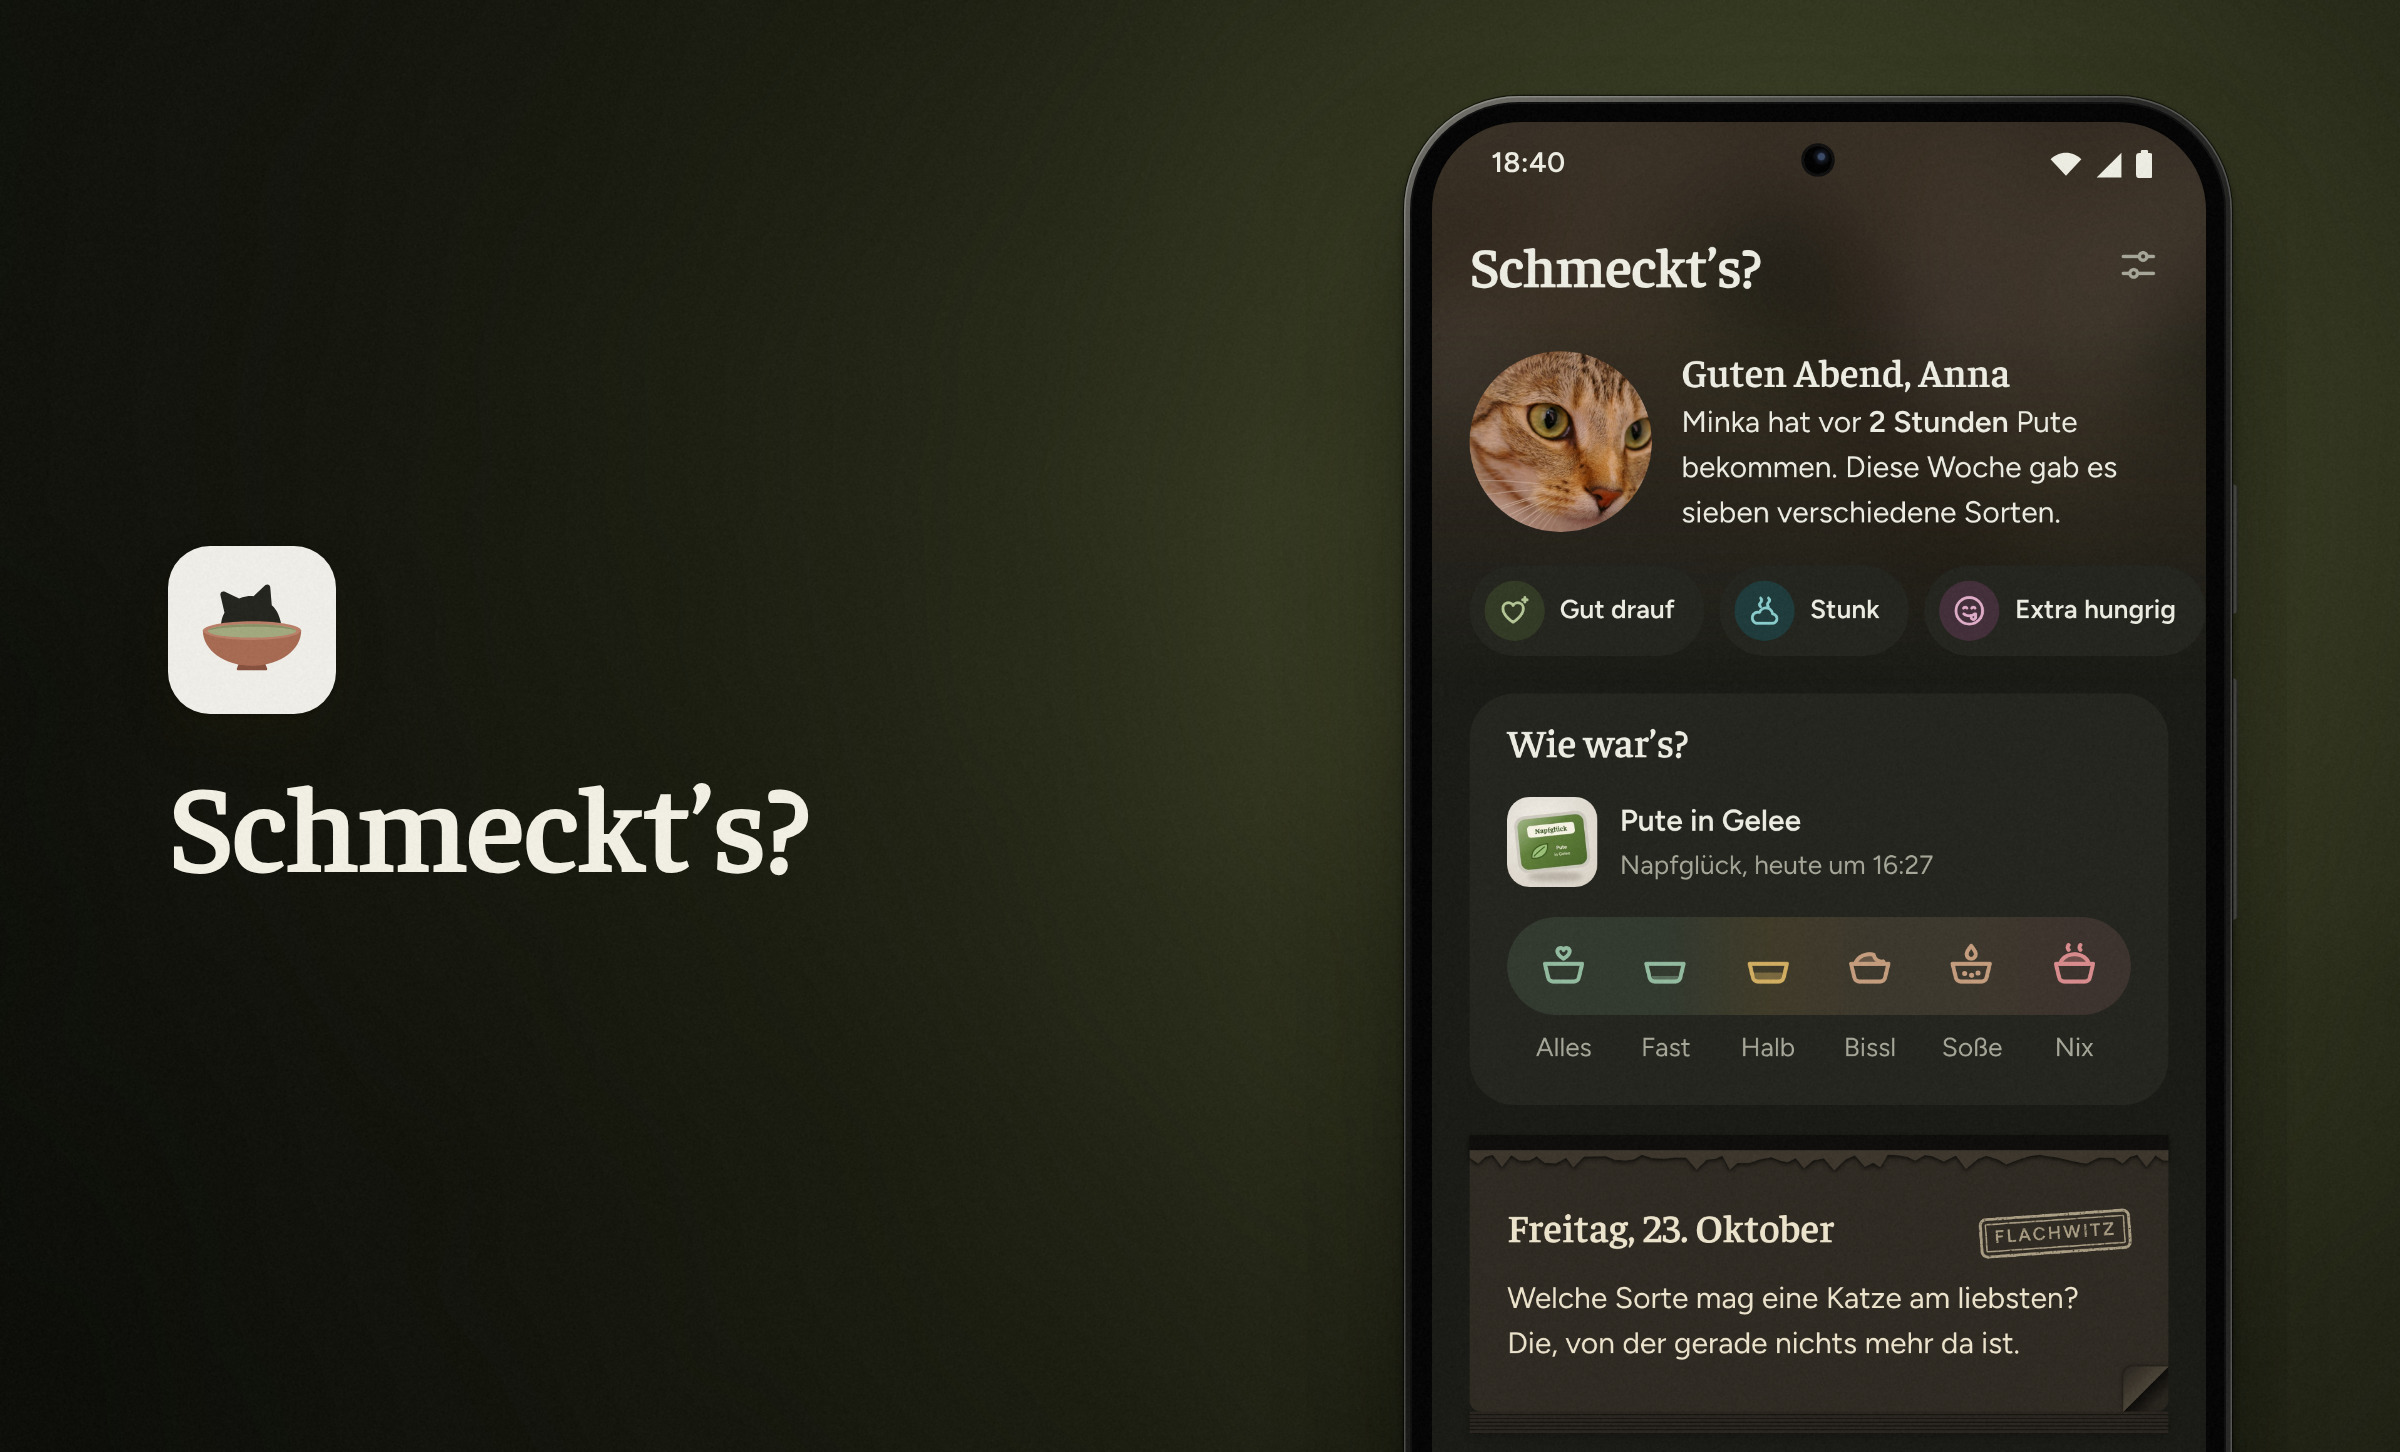
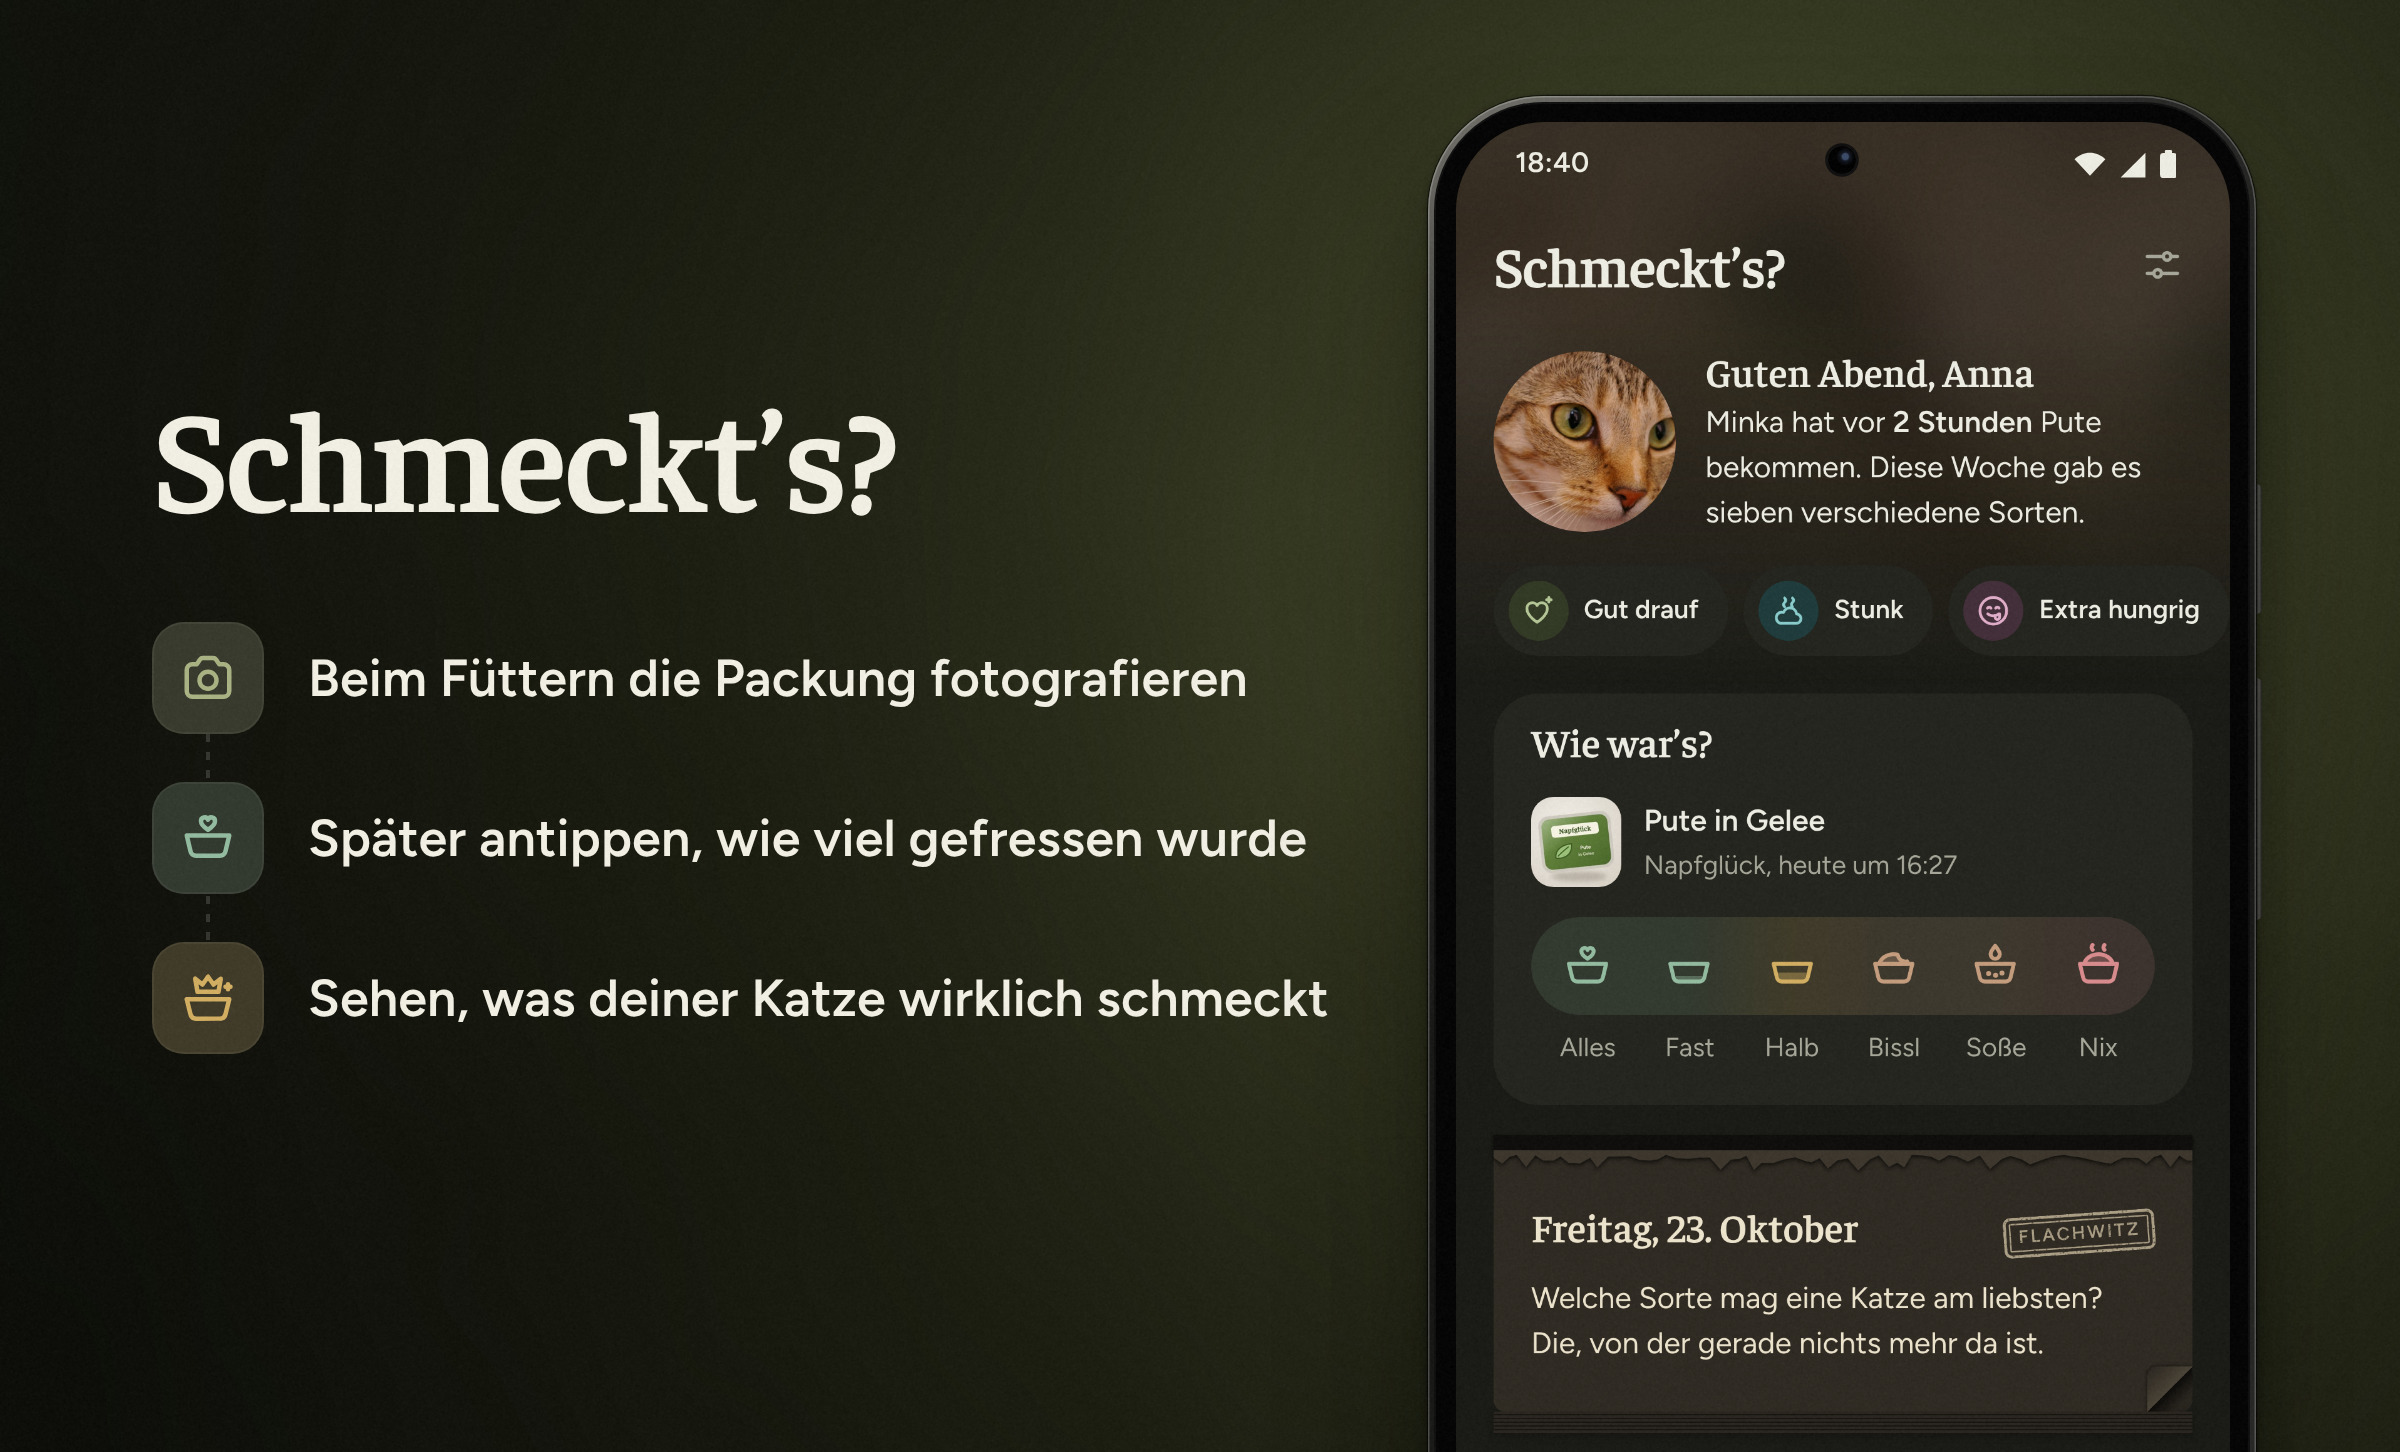
README: three points in the header, feeding sheet in the second picture

diff --git a/README.md b/README.md
@@ -1,6 +1,6 @@
 <picture>
   <source media="(prefers-color-scheme: dark)" srcset=".github/readme/header-dark.jpg">
-  <img src=".github/readme/header-light.jpg" alt="Die Startseite von Schmeckt’s? mit dem Foto der Katze und der Frage „Wie war’s?“">
+  <img src=".github/readme/header-light.jpg" alt="Schmeckt’s? Beim Füttern die Packung fotografieren, später antippen, wie viel gefressen wurde, und sehen, was deiner Katze wirklich schmeckt. Daneben die Startseite der App.">
 </picture>
 
 Schmeckt’s? ist ein Futtertagebuch für Katzen. Du trägst ein, welche Sorte deine Katze bekommt und wie viel sie davon frisst. Mit der Zeit siehst du dann, welche Sorten ihr schmecken und welche du beim Einkaufen im Regal lassen kannst.
@@ -12,11 +12,11 @@ So ein Tagebuch hält man im Alltag aber nur durch, wenn es kaum Arbeit macht. D
 
 ## So geht’s
 
-1. Beim Füttern scannst du den Barcode oder fotografierst die Packung. Wenn die App die Sorte erkennt, bist du damit schon fertig. Bei einer neuen Sorte schlägt sie dir den Namen von der Packung vor, und wenn er stimmt, tippst du auf „Passt so“.
+1. Beim Füttern fotografierst du die Packung. Wenn die App die Sorte erkennt, bist du damit schon fertig. Bei einer neuen Sorte schlägt sie dir den Namen von der Packung vor, und wenn er stimmt, tippst du auf „Passt so“.
 2. Später tippst du an, wie viel deine Katze gefressen hat, von „Alles“ bis „Nix“. Wenn du dich daran erinnern lässt, geht das auch direkt in der Benachrichtigung.
 3. Nach ein paar Wochen siehst du unter „Vorlieben“, welche Sorten gut ankommen und welche deine Katze lieber stehen lässt.
 
-![Die Vorlieben im hellen und im dunklen Design](.github/readme/light-dark.jpg)
+![Das Füttern im hellen und die Vorlieben im dunklen Design](.github/readme/light-dark.jpg)
 
 <details>
 <summary><b>Was die App sonst so kann</b></summary>
